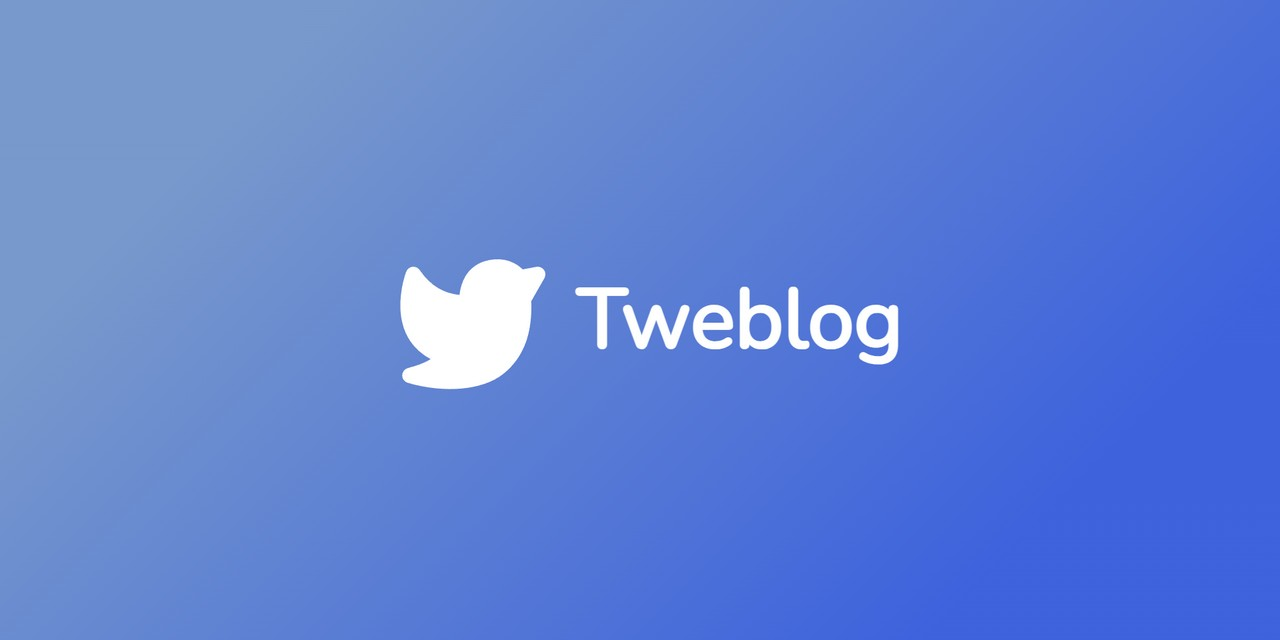
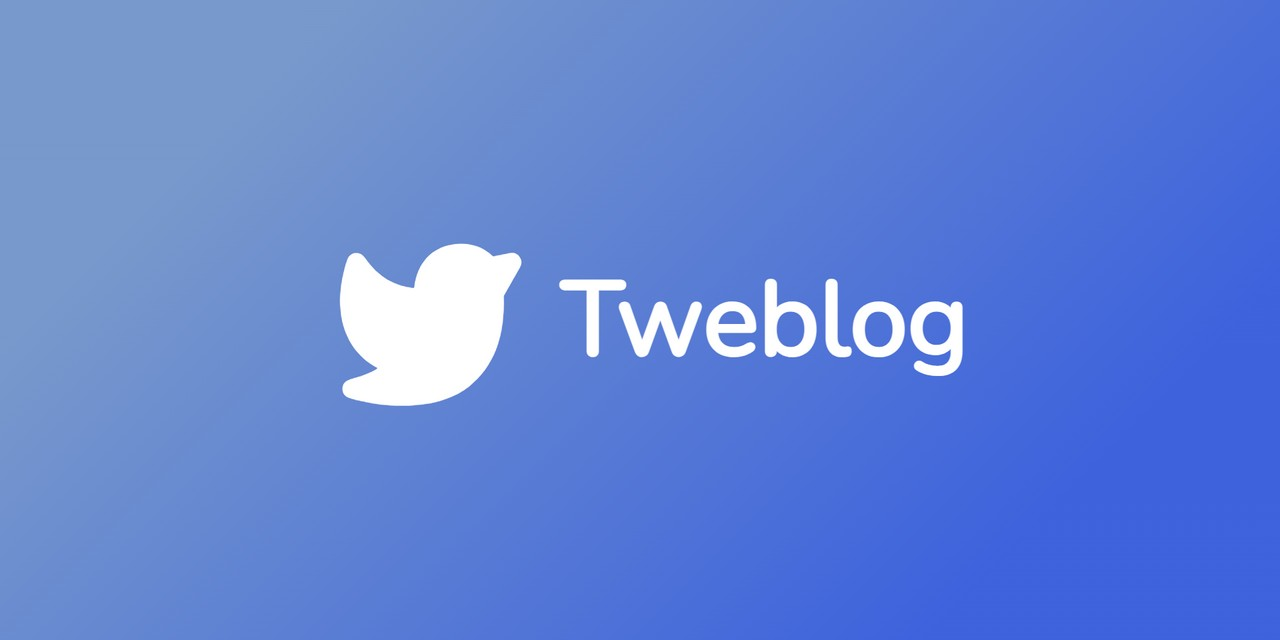
文档正在完善

Changed region(s): [[0.25, 0.375, 0.75, 0.6562]]

diff --git a/social2.html b/social2.html
@@ -1,0 +1,85 @@
+<!DOCTYPE html>
+<html lang="en">
+
+<head>
+  <meta charset="UTF-8">
+  <meta name="viewport" content="width=device-width, initial-scale=1.0">
+  <title>Document</title>
+  <!-- <link href="https://fonts.googleapis.com/css2?family=Lobster&display=swap" rel="stylesheet"> -->
+  <!-- <link href="https://fonts.googleapis.com/css2?family=Pacifico&display=swap" rel="stylesheet"> -->
+  <!-- <link href="https://fonts.googleapis.com/css2?family=Raleway&display=swap" rel="stylesheet"> -->
+  <!-- <link href="https://fonts.googleapis.com/css2?family=Playfair+Display&display=swap" rel="stylesheet"> -->
+  <!-- <link href="https://fonts.googleapis.com/css2?family=Poppins&display=swap" rel="stylesheet"> -->
+  <!-- <link href="https://fonts.googleapis.com/css2?family=Lato&display=swap" rel="stylesheet"> -->
+  <link href="https://fonts.googleapis.com/css2?family=Nunito&display=swap" rel="stylesheet">
+  <!-- <link href="https://fonts.googleapis.com/css2?family=Quicksand&display=swap" rel="stylesheet"> -->
+  <!-- <link href="https://fonts.googleapis.com/css2?family=Ubuntu&display=swap" rel="stylesheet"> -->
+  <!-- <link href="https://fonts.googleapis.com/css2?family=Muli&display=swap" rel="stylesheet"> -->
+  <!-- <link href="https://fonts.googleapis.com/css2?family=Source+Sans+Pro&display=swap" rel="stylesheet"> -->
+  <style>
+    .name {
+      color: #ffffff;
+      font-size: 100px;
+      font-weight: bold;
+      /* font-family: 'Lobster', cursive; */
+      /* font-family: 'Pacifico', cursive; */
+      /* font-family: 'Raleway', sans-serif; */
+      /* font-family: 'Playfair Display', serif; */
+      /* font-family: 'Poppins', sans-serif; */
+      /* font-family: 'Lato', sans-serif; */
+      font-family: 'Nunito', sans-serif;
+      /* font-family: 'Quicksand', sans-serif; */
+      /* font-family: 'Ubuntu', sans-serif; */
+      /* font-family: 'Muli', sans-serif; */
+      /* font-family: 'Source Sans Pro', sans-serif; */
+    }
+
+    *,
+    *::before,
+    *::after {
+      box-sizing: border-box;
+      margin: 0;
+      font-weight: normal;
+    }
+
+    .social-box {
+      height: 100vh;
+      background: linear-gradient(135deg, #7899cc 20%, #3e63dd 80%);
+      /* background: linear-gradient(135deg, #7899cc 10%, #5a7583 30%, #bb9854 50%, #ab4378 70%, #799978 90%); */
+      /* background: linear-gradient(135deg, #7899cc 15%, #5a7583 32.5%, #bb9854 50%, #ab4378 67.5%, #799978 85%); */
+      /* background: linear-gradient(135deg, #ffffff 20%, #1b1b1f 80%); */
+      display: flex;
+      justify-content: center;
+      align-items: center;
+    }
+
+    .content-box {
+      display: flex;
+      align-items: center;
+      flex-direction: column;
+    }
+
+    .logo {
+      width: 220px;
+      height: 220px;
+      /* margin-right: 20px; */
+    }
+  </style>
+</head>
+
+<body>
+  <div class="social-box">
+    <div class="content-box">
+      <div class="logo">
+        <svg xmlns="http://www.w3.org/2000/svg" viewBox="0 0 24 24">
+          <path fill="#ffffff"
+            d="M4.594 4.984a1 1 0 0 1 .941.429C7.011 7.572 8.783 8.47 10.75 8.674c.096-.841.323-1.672.75-2.404c.626-1.074 1.644-1.864 3.098-2.156c2.01-.404 3.54.324 4.427 1.215l1.792-.335a1 1 0 0 1 1.053 1.478l-1.72 3.022c.157 4.361-1.055 7.405-3.639 9.502c-1.37 1.112-3.332 1.743-5.485 1.938c-2.17.196-4.623-.041-7.061-.753a1 1 0 0 1 .007-1.922c1.226-.349 2.16-.65 3.003-1.177c-1.199-.636-2.082-1.468-2.707-2.416c-.868-1.318-1.19-2.788-1.254-4.113S3.141 8 3.343 7.115c.115-.505.249-1.011.434-1.495a1 1 0 0 1 .818-.636Z">
+          </path>
+        </svg>
+      </div>
+      <div class="name">Tweblog</div>
+    </div>
+  </div>
+</body>
+
+</html>

diff --git a/social3.html b/social3.html
@@ -1,0 +1,84 @@
+<!DOCTYPE html>
+<html lang="en">
+
+<head>
+  <meta charset="UTF-8">
+  <meta name="viewport" content="width=device-width, initial-scale=1.0">
+  <title>Document</title>
+  <!-- <link href="https://fonts.googleapis.com/css2?family=Lobster&display=swap" rel="stylesheet"> -->
+  <!-- <link href="https://fonts.googleapis.com/css2?family=Pacifico&display=swap" rel="stylesheet"> -->
+  <!-- <link href="https://fonts.googleapis.com/css2?family=Raleway&display=swap" rel="stylesheet"> -->
+  <!-- <link href="https://fonts.googleapis.com/css2?family=Playfair+Display&display=swap" rel="stylesheet"> -->
+  <!-- <link href="https://fonts.googleapis.com/css2?family=Poppins&display=swap" rel="stylesheet"> -->
+  <!-- <link href="https://fonts.googleapis.com/css2?family=Lato&display=swap" rel="stylesheet"> -->
+  <link href="https://fonts.googleapis.com/css2?family=Nunito&display=swap" rel="stylesheet">
+  <!-- <link href="https://fonts.googleapis.com/css2?family=Quicksand&display=swap" rel="stylesheet"> -->
+  <!-- <link href="https://fonts.googleapis.com/css2?family=Ubuntu&display=swap" rel="stylesheet"> -->
+  <!-- <link href="https://fonts.googleapis.com/css2?family=Muli&display=swap" rel="stylesheet"> -->
+  <!-- <link href="https://fonts.googleapis.com/css2?family=Source+Sans+Pro&display=swap" rel="stylesheet"> -->
+  <style>
+    .name {
+      color: #ffffff;
+      font-size: 100px;
+      font-weight: bold;
+      /* font-family: 'Lobster', cursive; */
+      /* font-family: 'Pacifico', cursive; */
+      /* font-family: 'Raleway', sans-serif; */
+      /* font-family: 'Playfair Display', serif; */
+      /* font-family: 'Poppins', sans-serif; */
+      /* font-family: 'Lato', sans-serif; */
+      font-family: 'Nunito', sans-serif;
+      /* font-family: 'Quicksand', sans-serif; */
+      /* font-family: 'Ubuntu', sans-serif; */
+      /* font-family: 'Muli', sans-serif; */
+      /* font-family: 'Source Sans Pro', sans-serif; */
+    }
+
+    *,
+    *::before,
+    *::after {
+      box-sizing: border-box;
+      margin: 0;
+      font-weight: normal;
+    }
+
+    .social-box {
+      height: 100vh;
+      background: linear-gradient(135deg, #7899cc 20%, #3e63dd 80%);
+      /* background: linear-gradient(135deg, #7899cc 10%, #5a7583 30%, #bb9854 50%, #ab4378 70%, #799978 90%); */
+      /* background: linear-gradient(135deg, #7899cc 15%, #5a7583 32.5%, #bb9854 50%, #ab4378 67.5%, #799978 85%); */
+      /* background: linear-gradient(135deg, #ffffff 20%, #1b1b1f 80%); */
+      display: flex;
+      justify-content: center;
+      align-items: center;
+    }
+
+    .content-box {
+      display: flex;
+      align-items: center;
+      flex-direction: column;
+    }
+
+    .logo {
+      width: 220px;
+      height: 220px;
+      /* margin-right: 20px; */
+    }
+  </style>
+</head>
+
+<body>
+  <div class="social-box">
+    <div class="content-box">
+      <div class="logo">
+        <svg xmlns="http://www.w3.org/2000/svg" viewBox="0 0 24 24">
+          <path fill="#ffffff"
+            d="M4.594 4.984a1 1 0 0 1 .941.429C7.011 7.572 8.783 8.47 10.75 8.674c.096-.841.323-1.672.75-2.404c.626-1.074 1.644-1.864 3.098-2.156c2.01-.404 3.54.324 4.427 1.215l1.792-.335a1 1 0 0 1 1.053 1.478l-1.72 3.022c.157 4.361-1.055 7.405-3.639 9.502c-1.37 1.112-3.332 1.743-5.485 1.938c-2.17.196-4.623-.041-7.061-.753a1 1 0 0 1 .007-1.922c1.226-.349 2.16-.65 3.003-1.177c-1.199-.636-2.082-1.468-2.707-2.416c-.868-1.318-1.19-2.788-1.254-4.113S3.141 8 3.343 7.115c.115-.505.249-1.011.434-1.495a1 1 0 0 1 .818-.636Z">
+          </path>
+        </svg>
+      </div>
+    </div>
+  </div>
+</body>
+
+</html>

diff --git a/src/guide/what-is-tweblog.md b/src/guide/what-is-tweblog.md
@@ -7,6 +7,10 @@
 
 是一个社交媒体博客化工具，目的是为了方便同时运营多个社交媒体，自己也在打算用这个从推特出逃。
 
+**Github：** https://github.com/haruki1953/Tweblog
+
+**网站/文档：** https://tweblog.com/
+
 **预览：** https://haruki.tweblog.com/
 
 **当前版本：** [0.0.2](./changelog.md#002)

diff --git a/src/guide/extension/project.md b/src/guide/extension/project.md
@@ -92,3 +92,8 @@ docker logs Tweblog
 ```
 
 
+## 开发记录
+这里是 Tweblog 的开发记录，接口文档和笔记之类的都在这里，自己也是瞎写的比较乱：
+https://github.com/haruki1953/240630-web-note/tree/master/240810-tweet-blog-dev
+
+如果有愚蠢的错误之类的，还请拜托能告诉我🙏
